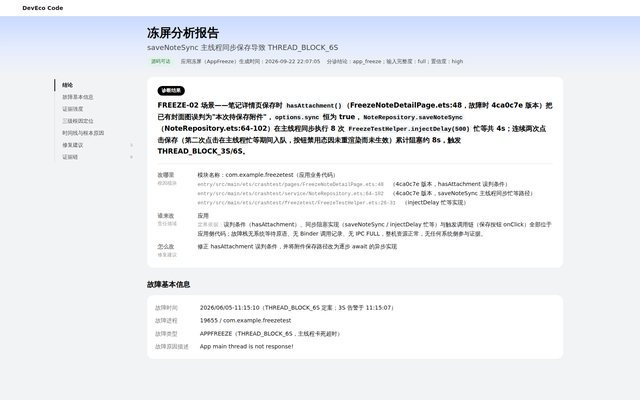
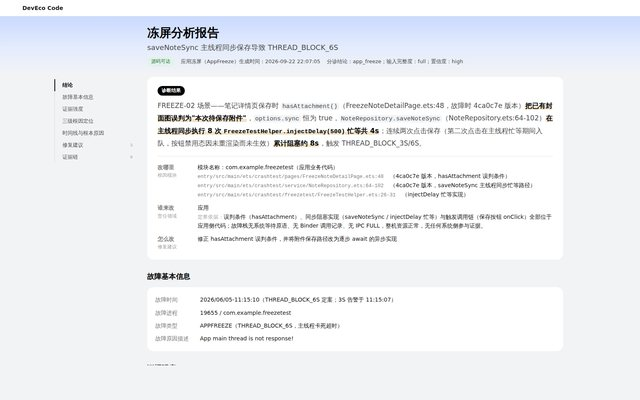
demo 28 V2：诊断结果加重点强调（原文不变，只加粗并底色标出关键句）

Changed region(s): [[0.25, 0.24, 0.875, 0.63], [0.2188, 0.51, 0.625, 0.87], [0.25, 0.9, 0.2812, 0.93]]

diff --git a/demos/28-appfreeze-report/v2.html b/demos/28-appfreeze-report/v2.html
@@ -78,7 +78,9 @@ h1{font-size:30px;font-weight:700;line-height:1.3;color:var(--ink)}
 .vrows code{background:var(--fill);border-radius:4px;padding:0 4px}
 .vrows .pill{margin-left:8px;vertical-align:1px}
 .vrows .muted{color:var(--ink4);font-size:13px}
-.verdict h3{font-size:17px;font-weight:600;line-height:1.7;color:var(--ink)}
+.verdict h3{font-size:17px;font-weight:400;line-height:1.8;color:var(--ink2)}
+.verdict h3 em.k{font-style:normal;font-weight:600;color:var(--ink);background:linear-gradient(transparent 60%,#F3E3C6 0);padding:0 1px}
+.verdict h3 em.k code{background:none;padding:0}
 .verdict h3 code{font-family:var(--mono);font-size:.9em;background:var(--fill);border-radius:4px;padding:0 4px}
 .dlab{font-size:12.5px;color:var(--ink3);font-weight:600;margin-bottom:4px}
 .vrows dt small{display:block;font-size:12px;font-weight:400;color:var(--ink4)}
@@ -281,7 +283,7 @@ const V = {
   v2: {
     gen:'2026-09-22 22:07:05',
     triage:'分诊结论：app_freeze；输入完整度：full；置信度：high',
-    diag:'FREEZE-02 场景——笔记详情页保存时 <code>hasAttachment()</code>（FreezeNoteDetailPage.ets:48，故障时 4ca0c7e 版本）把已有封面图误判为"本次待保存附件"，<code>options.sync</code> 恒为 true，<code>NoteRepository.saveNoteSync</code>（NoteRepository.ets:64-102）在主线程同步执行 8 次 <code>FreezeTestHelper.injectDelay(500)</code> 忙等共 4s；连续两次点击保存（第二次点击在主线程忙等期间入队，按钮禁用态因未重渲染而未生效）累计阻塞约 8s，触发 THREAD_BLOCK_3S/6S。',
+    diag:'FREEZE-02 场景——笔记详情页保存时 <code>hasAttachment()</code>（FreezeNoteDetailPage.ets:48，故障时 4ca0c7e 版本）<em class="k">把已有封面图误判为"本次待保存附件"</em>，<code>options.sync</code> 恒为 true，<code>NoteRepository.saveNoteSync</code>（NoteRepository.ets:64-102）<em class="k">在主线程同步执行 8 次 <code>FreezeTestHelper.injectDelay(500)</code> 忙等共 4s</em>；连续两次点击保存（第二次点击在主线程忙等期间入队，按钮禁用态因未重渲染而未生效）<em class="k">累计阻塞约 8s</em>，触发 THREAD_BLOCK_3S/6S。',
     rows:[
       ['根因模块','改哪里','模块名称：com.example.freezetest（应用业务代码）<br><span class="loc">entry/src/main/ets/crashtest/pages/FreezeNoteDetailPage.ets:48</span>（4ca0c7e 版本，hasAttachment 误判条件）<br><span class="loc">entry/src/main/ets/crashtest/service/NoteRepository.ets:64-102</span>（4ca0c7e 版本，saveNoteSync 主线程同步忙等路径）<br><span class="loc">entry/src/main/ets/crashtest/freezetest/FreezeTestHelper.ets:26-31</span>（injectDelay 忙等实现）'],
       ['责任领域','谁来改','应用<br><span class="muted">定界依据：</span>误判条件（hasAttachment）、同步阻塞实现（saveNoteSync / injectDelay 忙等）与触发调用链（保存按钮 onClick）全部位于应用侧代码；故障栈无系统等待原语、无 Binder 调用记录、无 IPC FULL，整机资源正常，无任何系统侧参与证据。'],
@@ -305,7 +307,7 @@ const V = {
   v1: {
     gen:'2026-09-22 21:04:35',
     triage:'分诊结论：app_freeze；输入完整度：full；置信度：high',
-    diag:'主线程在 Save 按钮点击回调中同步执行 <code>NoteRepository.saveNoteSync</code> 保存流水线（9 步、每步约 0.5s、单轮约 4.0s）；第一轮执行期间用户再次点击，第二轮流水线紧接执行，主线程连续约 8s 满负荷运行，EventHandler 队列阻塞（62→115 个任务），触发 THREAD_BLOCK_6S。',
+    diag:'主线程在 Save 按钮点击回调中<em class="k">同步执行 <code>NoteRepository.saveNoteSync</code> 保存流水线</em>（9 步、每步约 0.5s、单轮约 4.0s）；第一轮执行期间用户再次点击，<em class="k">第二轮流水线紧接执行</em>，<em class="k">主线程连续约 8s 满负荷运行</em>，EventHandler 队列阻塞（62→115 个任务），触发 THREAD_BLOCK_6S。',
     rows:[
       ['根因模块','改哪里','模块名称：com.example.freezetest（应用业务代码：FreezeNoteDetailPage 的 <code>onSaveClick</code> 回调 → <code>NoteRepository.saveNote</code> / <code>saveNoteSync</code> 同步保存流水线；堆栈帧为字节码桩且本次按用户要求未检索工程源码，具体源码文件与行号不可标注）'],
       ['责任领域','谁来改','应用<br><span class="muted">定界依据：</span>阻塞主线程的执行流为应用自有 ArkTS 代码——应用域日志 A00000/FreezeNoteDetail、A00000/NoteRepository 按步推进，栈顶为 ArkTS 字节码解释器桩（解释执行的是应用页面代码）；整机资源正常（CPU 28%、可用内存 2611MB、热等级 0）；系统侧 binder/FFRT/GC 线程全部空闲，无 IPC 阻塞与锁竞争；saveNote(sync=true) 的同步执行方式由应用自身选择。'],
